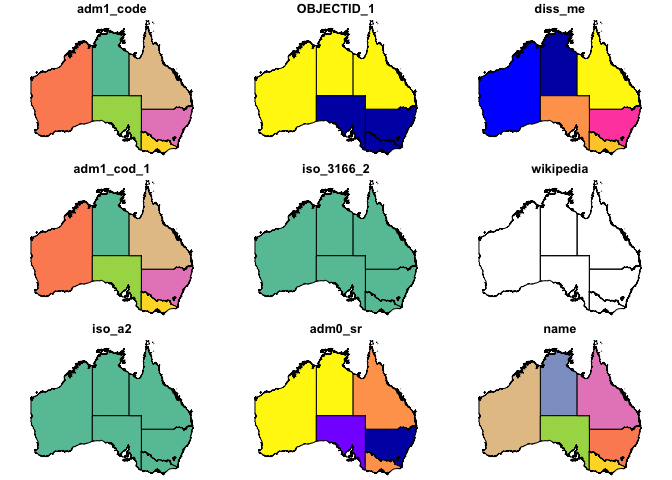
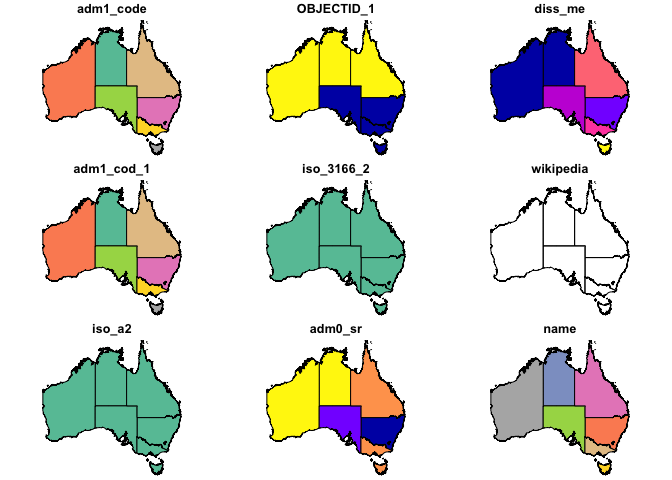
Fix missing Tasmania
Accidentaly removed Tasmania when removing Jervis Bay from plot. Jervis bay is removed just for labeling purposes. All other states and major territories are labeled.

diff --git a/README.md b/README.md
@@ -2,10 +2,7 @@
 Create a map of Australia and Map Data Collection Points
 --------------------------------------------------------
 
-This is a simple RMD file to illustrate how to use
-[_rnaturalearth_](https://github.com/ropenscilabs/rnaturalearth), [_simple features_](https://cran.r-project.org/web/packages/sf/vignettes/sf1.html) and
-_ggplot2_ to create a map of Australia and plot data collection points on it.
-
+This is a simple RMD file to illustrate how to use [*rnaturalearth*](https://github.com/ropenscilabs/rnaturalearth), [*simple features*](https://cran.r-project.org/web/packages/sf/vignettes/sf1.html) and *ggplot2* to create a map of Australia and plot data collection points on it.
 
 ### Setup
 
@@ -92,7 +89,7 @@ oz_shape <- st_intersection(oz_shape,
     ## throughout all geometries
 
 ``` r
-oz_shape <- oz_shape[oz_shape$woe_name != "Jervis Bay", ]
+oz_shape <- oz_shape[oz_shape$abbrev != "J.B.T.", ]
 
 plot(oz_shape)
 ```
@@ -109,18 +106,6 @@ Assuming the "Geocode\_319 samples.csv" file is in the same working directory as
 
 ``` r
 point_data <- read_csv("Geocode_319 samples.csv")
-```
-
-    ## Parsed with column specification:
-    ## cols(
-    ##   Location = col_character(),
-    ##   State = col_character(),
-    ##   Country = col_character(),
-    ##   Latitude = col_double(),
-    ##   Longitude = col_double()
-    ## )
-
-``` r
 point_data$State <- as.factor(point_data$State)
 ```
 
@@ -155,12 +140,6 @@ oz <- ggplot(oz_shape) +
 oz
 ```
 
-    ## Warning: Removed 1 rows containing missing values (geom_text).
-
-    ## Warning: Removed 1 rows containing missing values (geom_point).
-
-![](README_files/figure-markdown_github-ascii_identifiers/plot-1.png)
-
 Save the graph
 --------------
 
@@ -173,49 +152,164 @@ ggsave("Australia_Map.tiff", width = 190, units = "mm", dpi = 500)
 Appendix
 ========
 
-    ## R version 3.4.1 (2017-06-30)
-    ## Platform: x86_64-apple-darwin16.7.0 (64-bit)
-    ## Running under: macOS Sierra 10.12.6
-    ## 
-    ## Matrix products: default
-    ## BLAS/LAPACK: /usr/local/Cellar/openblas/0.2.20/lib/libopenblasp-r0.2.20.dylib
-    ## 
-    ## locale:
-    ## [1] en_AU.UTF-8/en_AU.UTF-8/en_AU.UTF-8/C/en_AU.UTF-8/en_AU.UTF-8
-    ## 
-    ## attached base packages:
-    ## [1] stats     graphics  grDevices utils     datasets  methods   base     
-    ## 
-    ## other attached packages:
-    ##  [1] sf_0.5-4            raster_2.5-8        sp_1.2-5           
-    ##  [4] rnaturalearth_0.1.0 dplyr_0.7.3         purrr_0.2.3        
-    ##  [7] readr_1.1.1         tidyr_0.7.1         tibble_1.3.4       
-    ## [10] ggplot2_2.2.1.9000  tidyverse_1.1.1    
-    ## 
-    ## loaded via a namespace (and not attached):
-    ##  [1] rnaturalearthhires_0.1.0 reshape2_1.4.2          
-    ##  [3] haven_1.1.0              lattice_0.20-35         
-    ##  [5] colorspace_1.3-2         htmltools_0.3.6         
-    ##  [7] yaml_2.1.14              rlang_0.1.2.9000        
-    ##  [9] foreign_0.8-69           glue_1.1.1              
-    ## [11] DBI_0.7                  modelr_0.1.1            
-    ## [13] readxl_1.0.0             bindrcpp_0.2            
-    ## [15] bindr_0.1                plyr_1.8.4              
-    ## [17] stringr_1.2.0            rgeos_0.3-23            
-    ## [19] munsell_0.4.3            gtable_0.2.0            
-    ## [21] cellranger_1.1.0         rvest_0.3.2             
-    ## [23] psych_1.7.8              evaluate_0.10.1         
-    ## [25] knitr_1.17               forcats_0.2.0           
-    ## [27] parallel_3.4.1           broom_0.4.2             
-    ## [29] Rcpp_0.12.12             udunits2_0.13           
-    ## [31] scales_0.5.0.9000        backports_1.1.0         
-    ## [33] jsonlite_1.5             mnormt_1.5-5            
-    ## [35] hms_0.3                  digest_0.6.12           
-    ## [37] stringi_1.1.5            grid_3.4.1              
-    ## [39] rprojroot_1.2            tools_3.4.1             
-    ## [41] magrittr_1.5             lazyeval_0.2.0          
-    ## [43] pkgconfig_2.0.1          xml2_1.1.1              
-    ## [45] lubridate_1.6.0          assertthat_0.2.0        
-    ## [47] rmarkdown_1.6            httr_1.3.1              
-    ## [49] R6_2.2.2                 units_0.4-6             
-    ## [51] nlme_3.1-131             compiler_3.4.1
+    ## Session info -------------------------------------------------------------
+
+    ##  setting  value                       
+    ##  version  R version 3.4.1 (2017-06-30)
+    ##  system   x86_64, darwin16.7.0        
+    ##  ui       unknown                     
+    ##  language (EN)                        
+    ##  collate  en_AU.UTF-8                 
+    ##  tz       Australia/Brisbane          
+    ##  date     2017-09-18
+
+    ## Packages -----------------------------------------------------------------
+
+    ##  package            * version    date      
+    ##  assertthat           0.2.0      2017-04-11
+    ##  backports            1.1.0      2017-05-22
+    ##  base               * 3.4.1      2017-09-03
+    ##  bindr                0.1        2016-11-13
+    ##  bindrcpp             0.2        2017-06-17
+    ##  broom                0.4.2      2017-02-13
+    ##  cellranger           1.1.0      2016-07-27
+    ##  colorspace           1.3-2      2016-12-14
+    ##  compiler             3.4.1      2017-09-03
+    ##  datasets           * 3.4.1      2017-09-03
+    ##  DBI                  0.7        2017-06-18
+    ##  devtools             1.13.3     2017-08-02
+    ##  digest               0.6.12     2017-01-27
+    ##  dplyr              * 0.7.3      2017-09-09
+    ##  evaluate             0.10.1     2017-06-24
+    ##  forcats              0.2.0      2017-01-23
+    ##  foreign              0.8-69     2017-06-22
+    ##  ggplot2            * 2.2.1      2016-12-30
+    ##  glue                 1.1.1      2017-06-21
+    ##  graphics           * 3.4.1      2017-09-03
+    ##  grDevices          * 3.4.1      2017-09-03
+    ##  grid                 3.4.1      2017-09-03
+    ##  gtable               0.2.0      2016-02-26
+    ##  haven                1.1.0      2017-07-09
+    ##  hms                  0.3        2016-11-22
+    ##  htmltools            0.3.6      2017-04-28
+    ##  httr                 1.3.1      2017-08-20
+    ##  jsonlite             1.5        2017-06-01
+    ##  knitr                1.17       2017-08-10
+    ##  lattice              0.20-35    2017-03-25
+    ##  lazyeval             0.2.0      2016-06-12
+    ##  lubridate            1.6.0      2016-09-13
+    ##  magrittr             1.5        2014-11-22
+    ##  memoise              1.1.0      2017-04-21
+    ##  methods            * 3.4.1      2017-09-03
+    ##  mnormt               1.5-5      2016-10-15
+    ##  modelr               0.1.1      2017-07-24
+    ##  munsell              0.4.3      2016-02-13
+    ##  nlme                 3.1-131    2017-02-06
+    ##  parallel             3.4.1      2017-09-03
+    ##  pkgconfig            2.0.1      2017-03-21
+    ##  plyr                 1.8.4      2016-06-08
+    ##  psych                1.7.8      2017-09-09
+    ##  purrr              * 0.2.3      2017-08-02
+    ##  R6                   2.2.2      2017-06-17
+    ##  raster             * 2.5-8      2016-06-02
+    ##  Rcpp                 0.12.12    2017-07-15
+    ##  readr              * 1.1.1      2017-05-16
+    ##  readxl               1.0.0      2017-04-18
+    ##  reshape2             1.4.2      2016-10-22
+    ##  rgeos                0.3-23     2017-04-06
+    ##  rlang                0.1.2.9000 2017-09-14
+    ##  rmarkdown            1.6        2017-06-15
+    ##  rnaturalearth      * 0.1.0      2017-03-21
+    ##  rnaturalearthhires   0.1.0      2017-09-18
+    ##  rprojroot            1.2        2017-01-16
+    ##  rvest                0.3.2      2016-06-17
+    ##  scales               0.5.0      2017-08-24
+    ##  sf                 * 0.5-4      2017-08-28
+    ##  sp                 * 1.2-5      2017-06-29
+    ##  stats              * 3.4.1      2017-09-03
+    ##  stringi              1.1.5      2017-04-07
+    ##  stringr              1.2.0      2017-02-18
+    ##  tibble             * 1.3.4      2017-08-22
+    ##  tidyr              * 0.7.1      2017-09-01
+    ##  tidyverse          * 1.1.1      2017-01-27
+    ##  tools                3.4.1      2017-09-03
+    ##  udunits2             0.13       2016-11-17
+    ##  units                0.4-6      2017-08-27
+    ##  utils              * 3.4.1      2017-09-03
+    ##  withr                2.0.0      2017-07-28
+    ##  xml2                 1.1.1      2017-01-24
+    ##  yaml                 2.1.14     2016-11-12
+    ##  source                          
+    ##  CRAN (R 3.4.1)                  
+    ##  CRAN (R 3.4.1)                  
+    ##  local                           
+    ##  CRAN (R 3.4.1)                  
+    ##  CRAN (R 3.4.1)                  
+    ##  CRAN (R 3.4.1)                  
+    ##  CRAN (R 3.4.1)                  
+    ##  CRAN (R 3.4.1)                  
+    ##  local                           
+    ##  local                           
+    ##  CRAN (R 3.4.1)                  
+    ##  CRAN (R 3.4.1)                  
+    ##  CRAN (R 3.4.1)                  
+    ##  cran (@0.7.3)                   
+    ##  CRAN (R 3.4.1)                  
+    ##  CRAN (R 3.4.1)                  
+    ##  CRAN (R 3.4.1)                  
+    ##  CRAN (R 3.4.1)                  
+    ##  CRAN (R 3.4.1)                  
+    ##  local                           
+    ##  local                           
+    ##  local                           
+    ##  CRAN (R 3.4.1)                  
+    ##  CRAN (R 3.4.1)                  
+    ##  CRAN (R 3.4.1)                  
+    ##  CRAN (R 3.4.1)                  
+    ##  cran (@1.3.1)                   
+    ##  CRAN (R 3.4.1)                  
+    ##  CRAN (R 3.4.1)                  
+    ##  CRAN (R 3.4.1)                  
+    ##  CRAN (R 3.4.1)                  
+    ##  CRAN (R 3.4.1)                  
+    ##  CRAN (R 3.4.1)                  
+    ##  CRAN (R 3.4.1)                  
+    ##  local                           
+    ##  CRAN (R 3.4.1)                  
+    ##  CRAN (R 3.4.1)                  
+    ##  CRAN (R 3.4.1)                  
+    ##  CRAN (R 3.4.1)                  
+    ##  local                           
+    ##  CRAN (R 3.4.1)                  
+    ##  CRAN (R 3.4.1)                  
+    ##  cran (@1.7.8)                   
+    ##  CRAN (R 3.4.1)                  
+    ##  CRAN (R 3.4.1)                  
+    ##  CRAN (R 3.4.1)                  
+    ##  CRAN (R 3.4.1)                  
+    ##  CRAN (R 3.4.1)                  
+    ##  CRAN (R 3.4.1)                  
+    ##  CRAN (R 3.4.1)                  
+    ##  CRAN (R 3.4.1)                  
+    ##  Github (tidyverse/rlang@ff02f2a)
+    ##  CRAN (R 3.4.1)                  
+    ##  CRAN (R 3.4.1)                  
+    ##  local                           
+    ##  CRAN (R 3.4.1)                  
+    ##  CRAN (R 3.4.1)                  
+    ##  cran (@0.5.0)                   
+    ##  cran (@0.5-4)                   
+    ##  CRAN (R 3.4.1)                  
+    ##  local                           
+    ##  CRAN (R 3.4.1)                  
+    ##  CRAN (R 3.4.1)                  
+    ##  cran (@1.3.4)                   
+    ##  cran (@0.7.1)                   
+    ##  CRAN (R 3.4.1)                  
+    ##  local                           
+    ##  CRAN (R 3.4.1)                  
+    ##  cran (@0.4-6)                   
+    ##  local                           
+    ##  CRAN (R 3.4.1)                  
+    ##  CRAN (R 3.4.1)                  
+    ##  CRAN (R 3.4.1)
